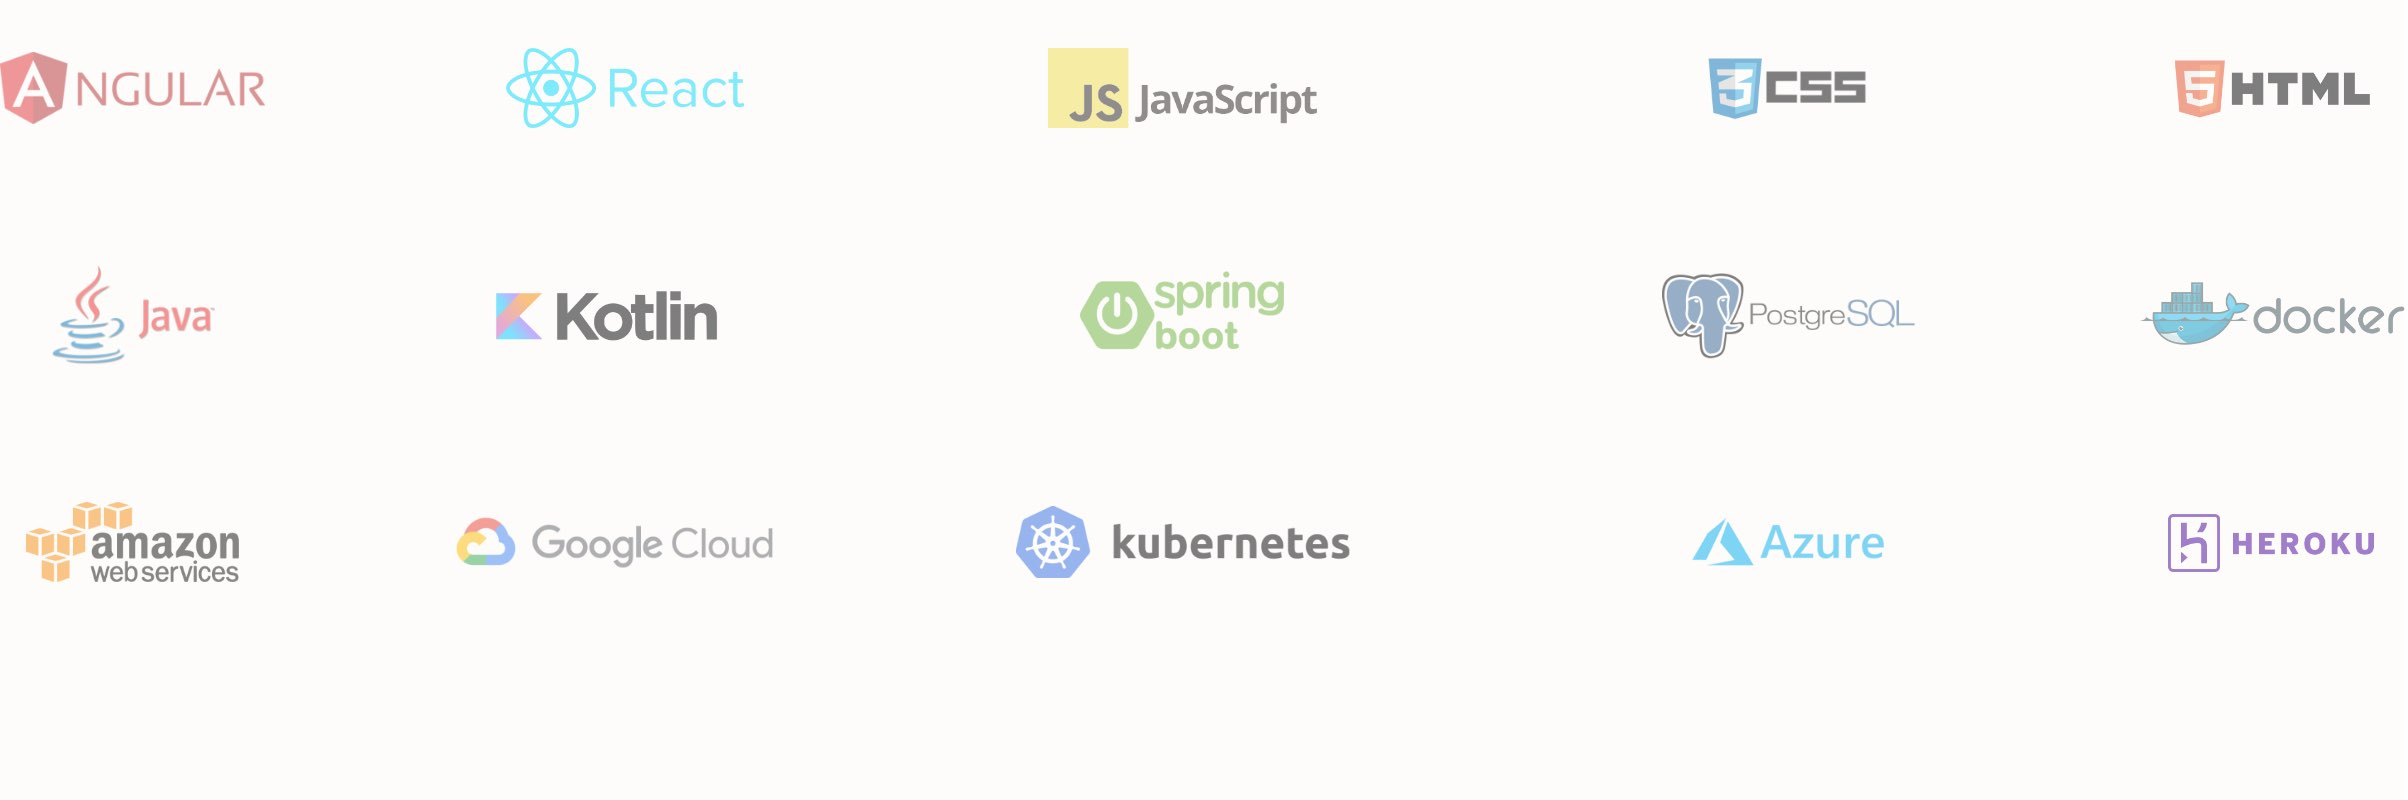
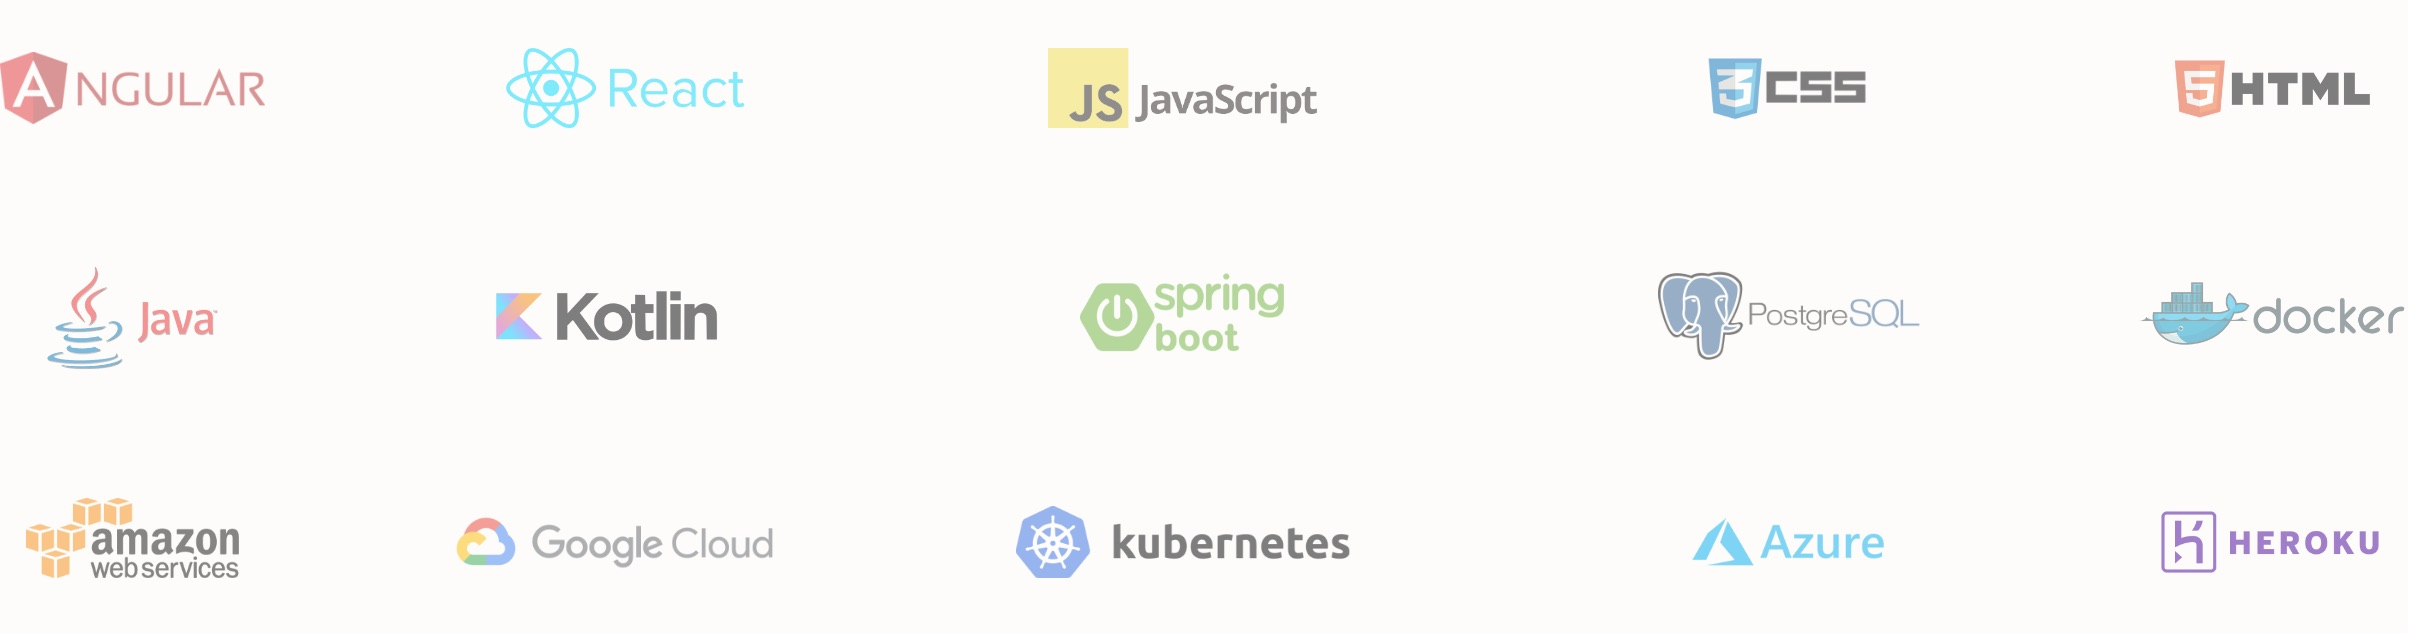
Added technology list

diff --git a/src/index.html b/src/index.html
@@ -232,6 +232,14 @@
                 </div>
             </div>
 
+            <div class="c-subsection" id="technologies">
+                <h2 class="c-subsection__title">Technologies we use</h2>
+                <div class="c-subsection__divider"></div>
+                <p class="c-subsection__description">We will help you take your business to the next level. Our team consists of people that joined profession with their passion.</p>
+                <img class="c-subsection__img-full d-none d-md-block" src="img/tech-list.jpg" alt="List of technologies">
+                <img class="c-subsection__img-full d-md-none" src="img/tech-list-mobile.jpg" alt="List of technologies">
+            </div>
+
             <div class="c-subsection" id="testimony">
                 <h2 class="c-subsection__title c-subsection__title--lg">Here's what they say <br class="d-sm-none">about us</h2>
                 <div class="c-subsection__divider c-subsection__divider--center"></div>

diff --git a/src/css/styles/_c-subsection.scss b/src/css/styles/_c-subsection.scss
@@ -34,6 +34,11 @@
     }
   }
 
+  &__img-full {
+    width: 100%;
+    margin: 4rem auto;
+  }
+
   @include media-breakpoint-down(md) {
     padding: 2rem 0;
 
@@ -43,7 +48,10 @@
       &--lg {
         font-size: 2rem;
       }
+    }
 
+    &__img-full {
+      margin: 3rem auto;
     }
   }
 
